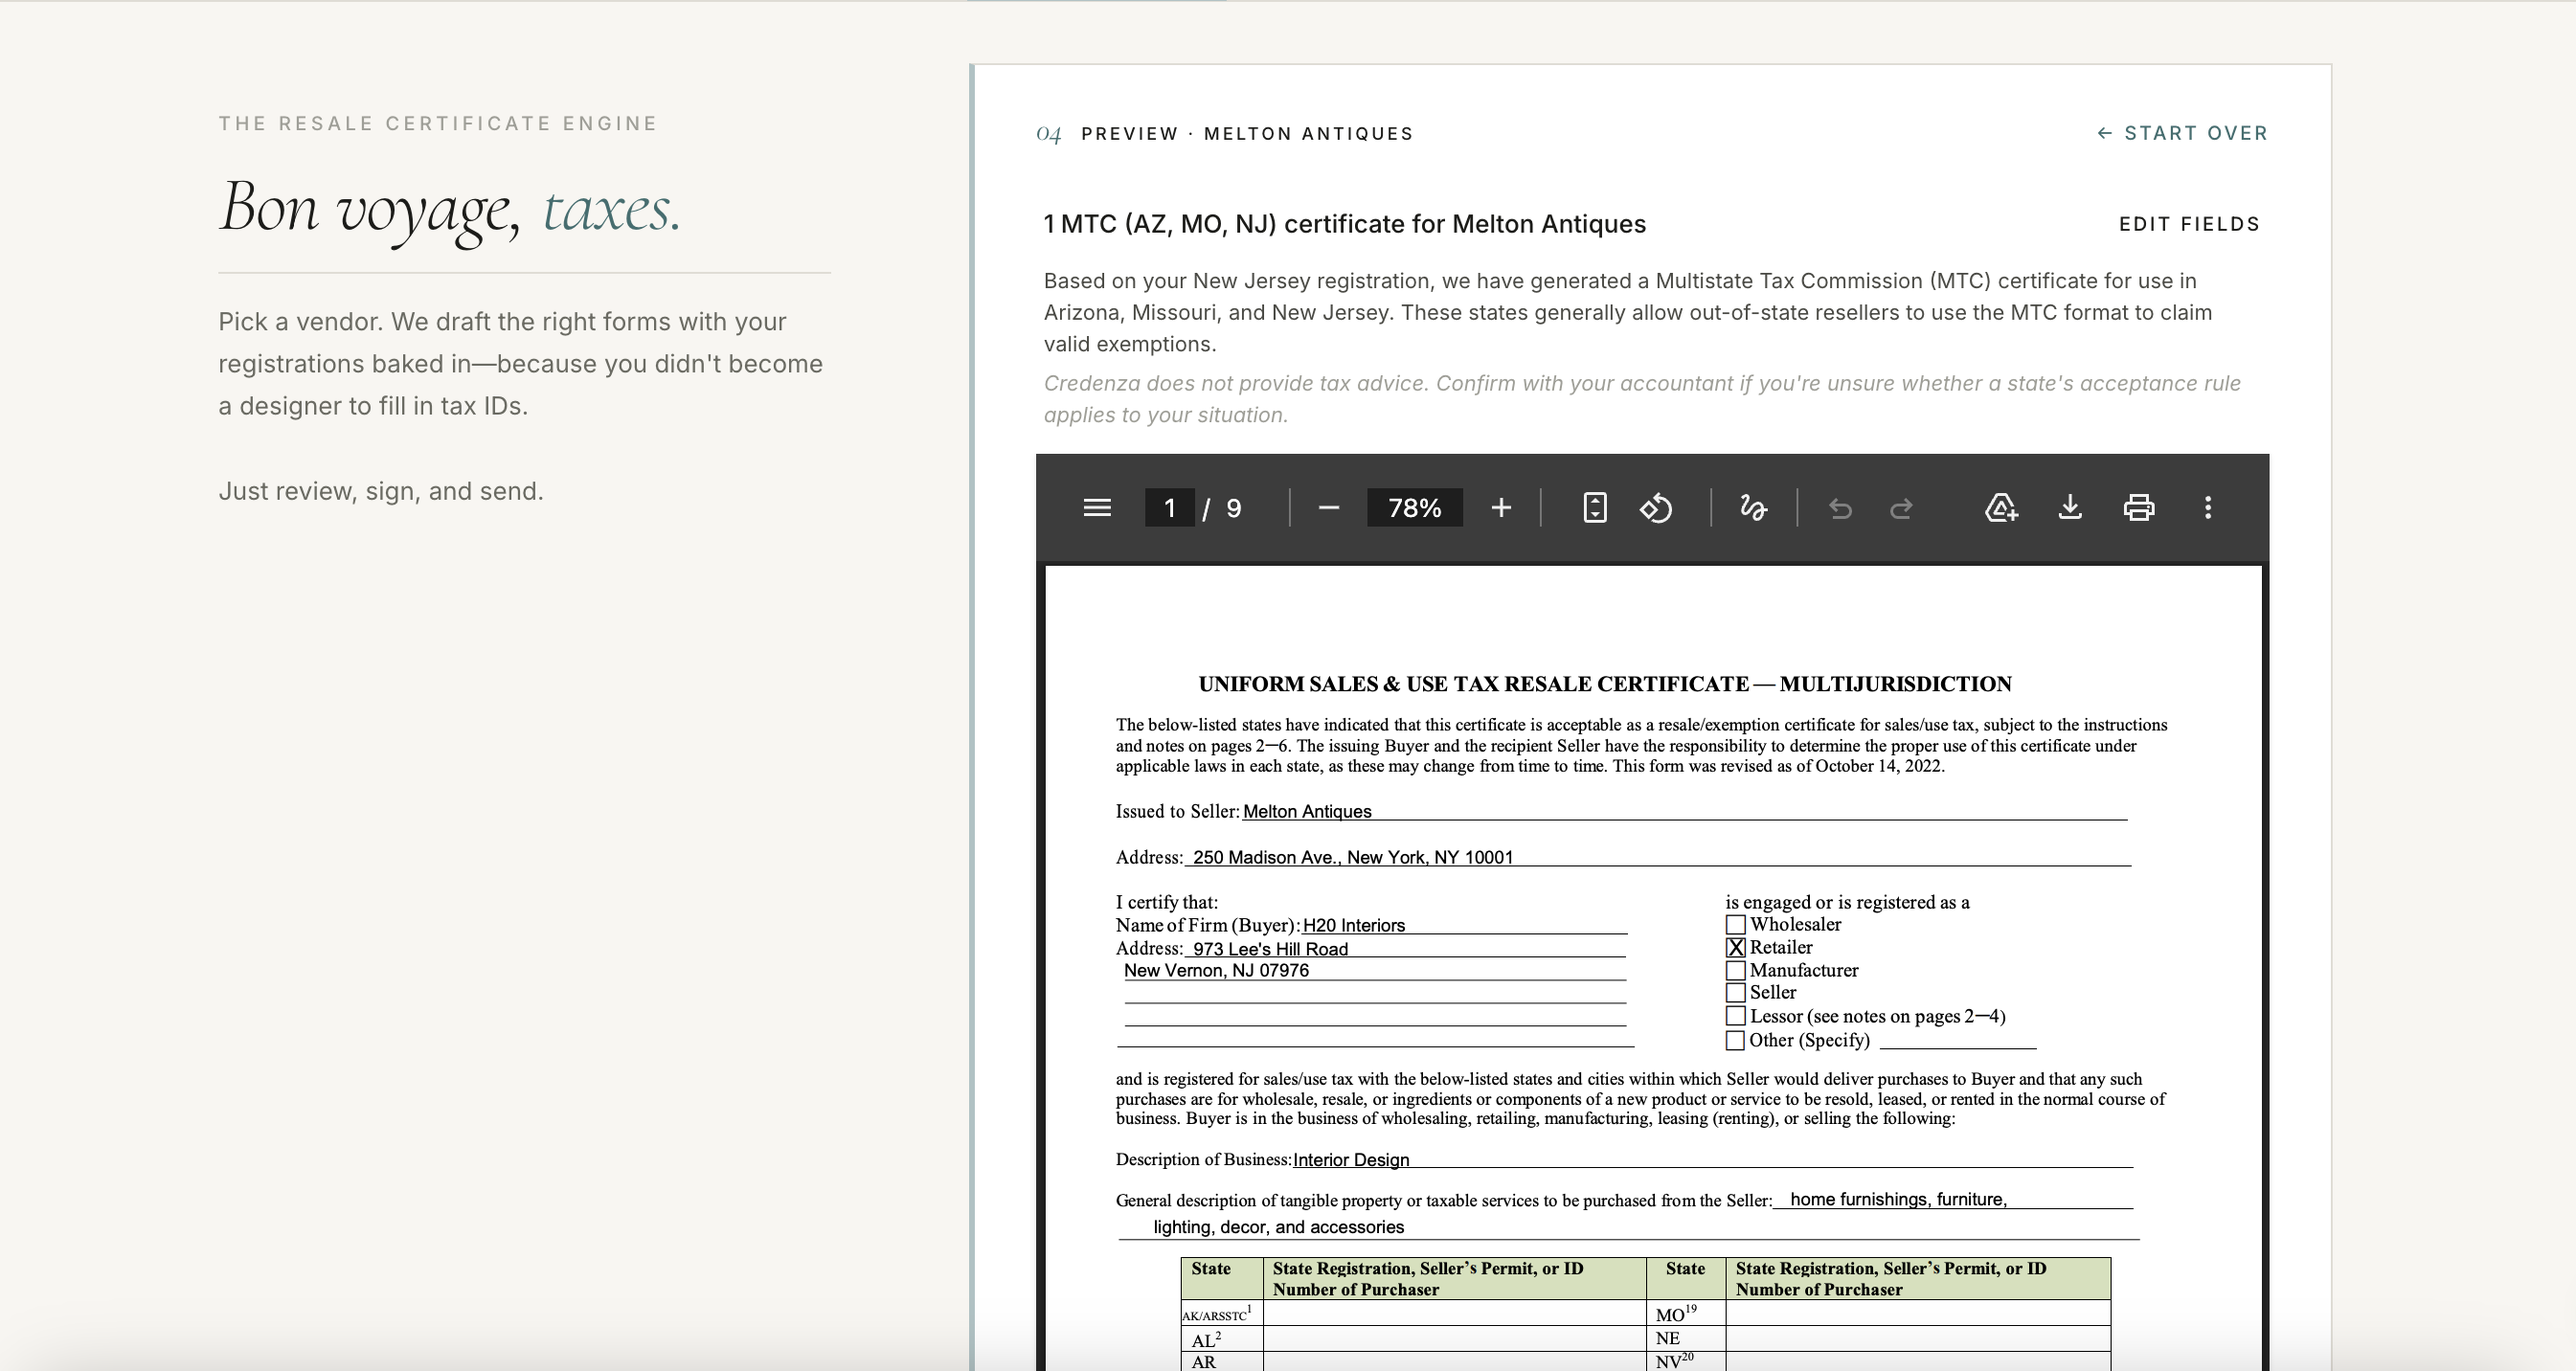
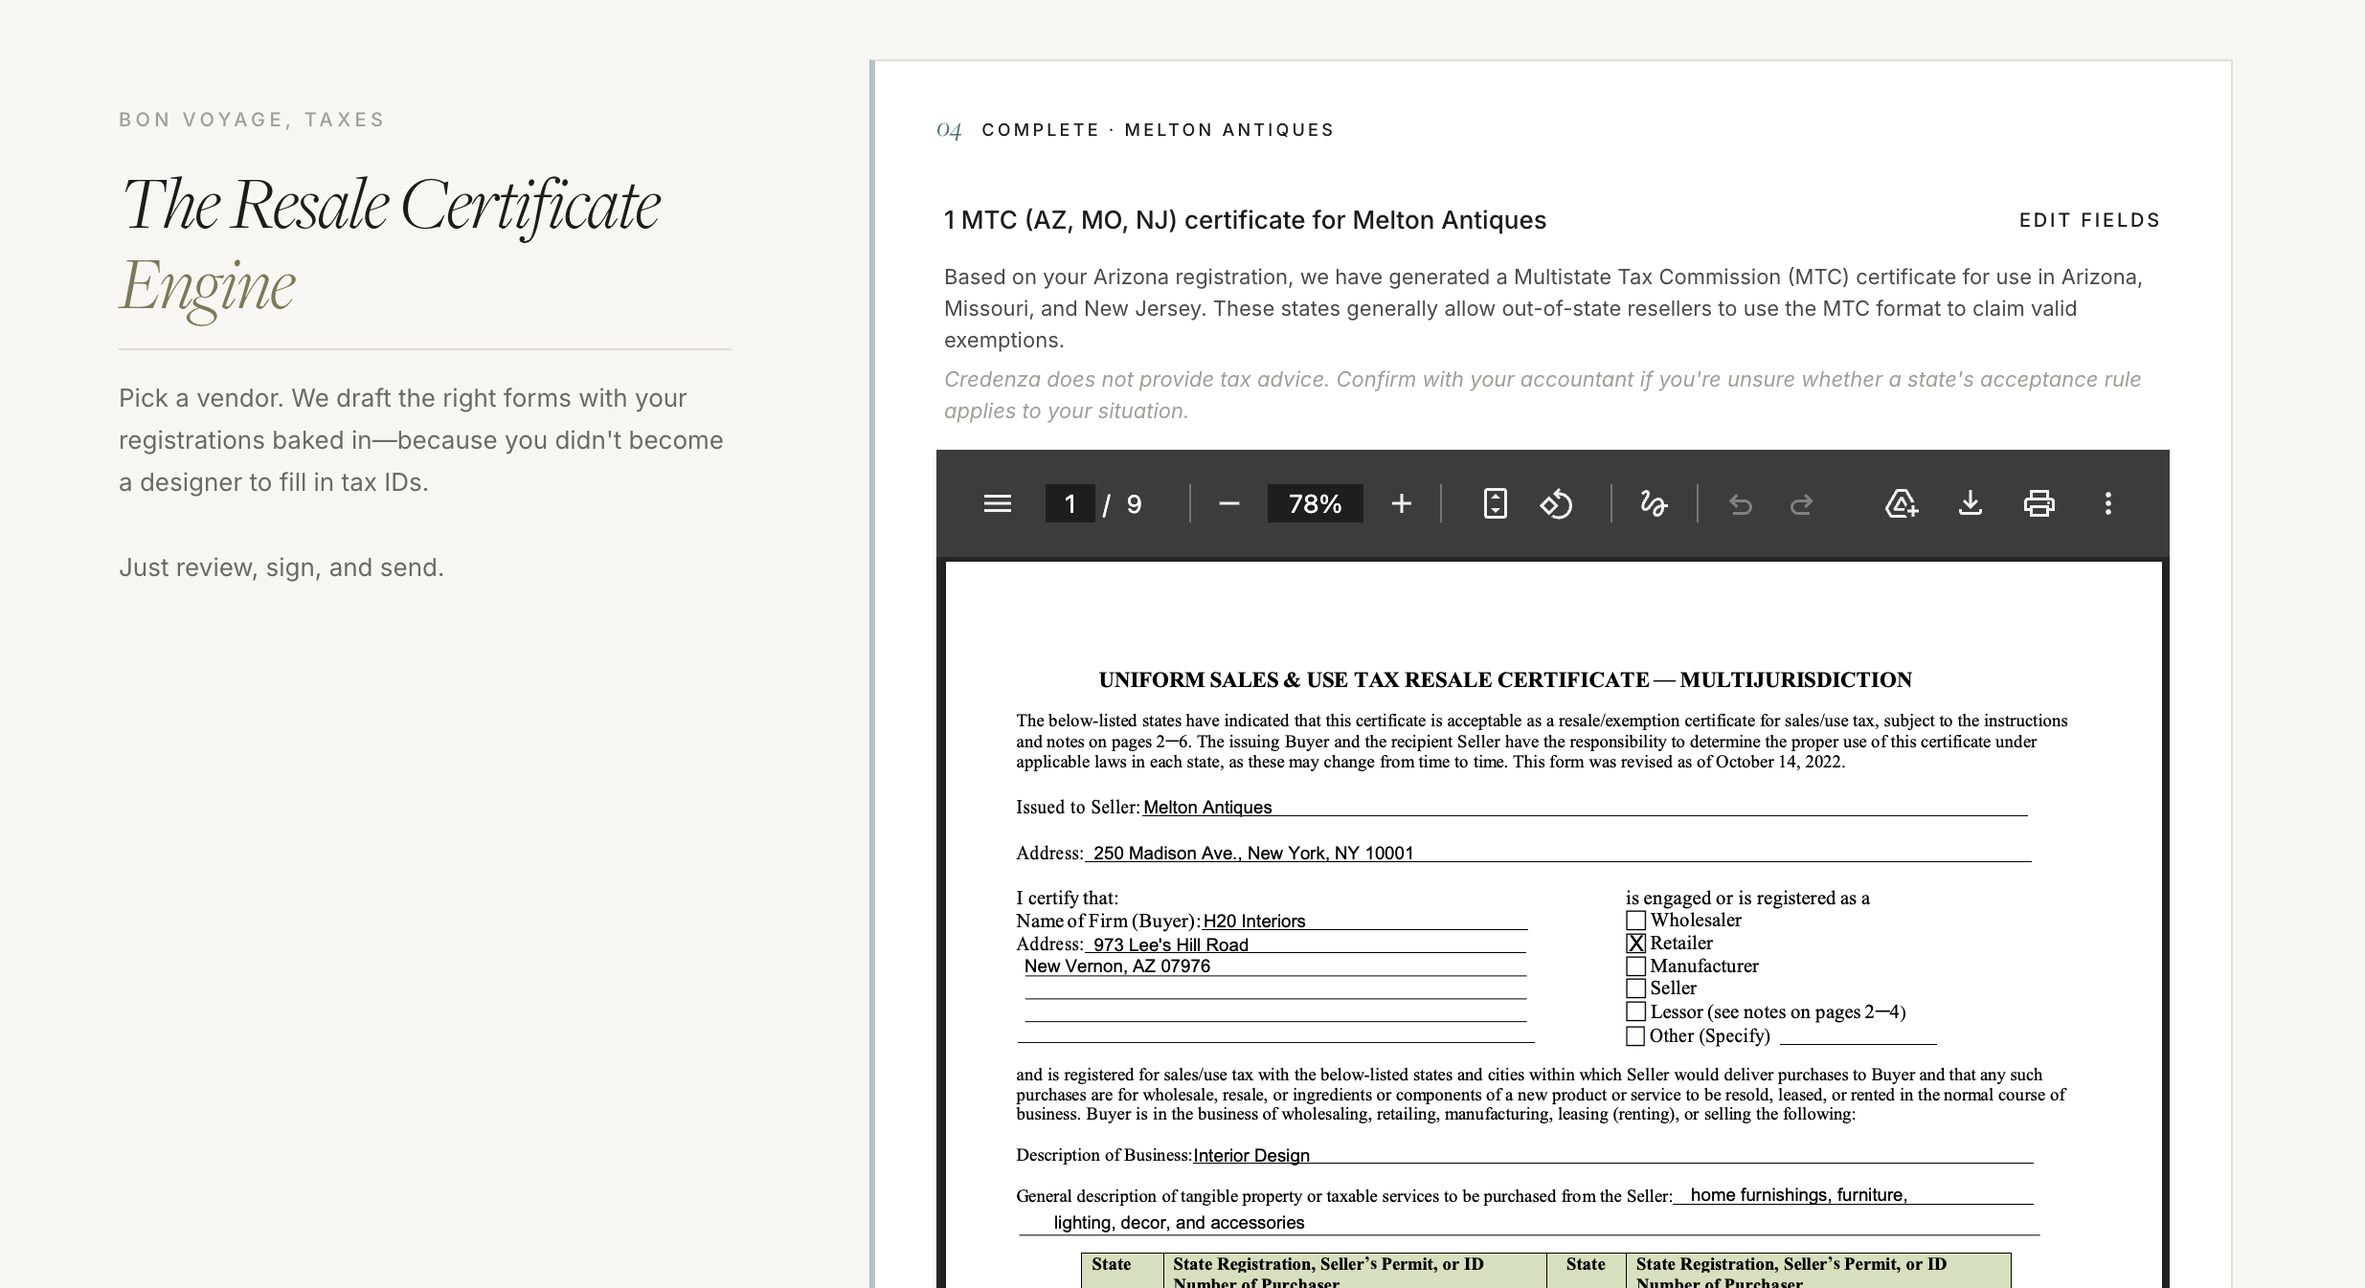
copy(for-designers): refresh cert screenshot, tighten network intro + FAQ
- Swap Tax Strategy cert screenshot to the "04 COMPLETE · Melton Antiques"
  MTC view + update alt text
- Network: drop the "building a network" marketplace framing; now opens
  with "We're onboarding the first vendor partners now. When vendors
  power their trade programs with Credenza..."
- FAQ "Can I add my own vendors?": "contact info" → "business info"

diff --git a/src/pages/ForDesigners.tsx b/src/pages/ForDesigners.tsx
@@ -958,11 +958,10 @@ function Network() {
               <OneClickApplyMock />
             </div>
             <p className="mb-6" style={{ fontFamily: "Inter, sans-serif", fontSize: "0.95rem", lineHeight: 1.75, color: "rgba(240,240,236,0.7)" }}>
-              Credenza is building a network of vendors whose trade programs are
-              powered by Credenza. We're onboarding the first vendor partners now. As
-              more join, your verified profile goes with you automatically—no new
-              forms, no document uploads, no repeat applications. One click and
-              you're in.
+              We're onboarding the first vendor partners now. When vendors power
+              their trade programs with Credenza, your verified profile goes with
+              you automatically—no new forms, no document uploads, no repeat
+              applications. One click and you're in.
             </p>
             <p className="font-freight italic mb-8 text-teal" style={{ fontSize: "1.15rem", lineHeight: 1.5, letterSpacing: "-0.01em" }}>
               Set up once. Every new vendor is just one click away.
